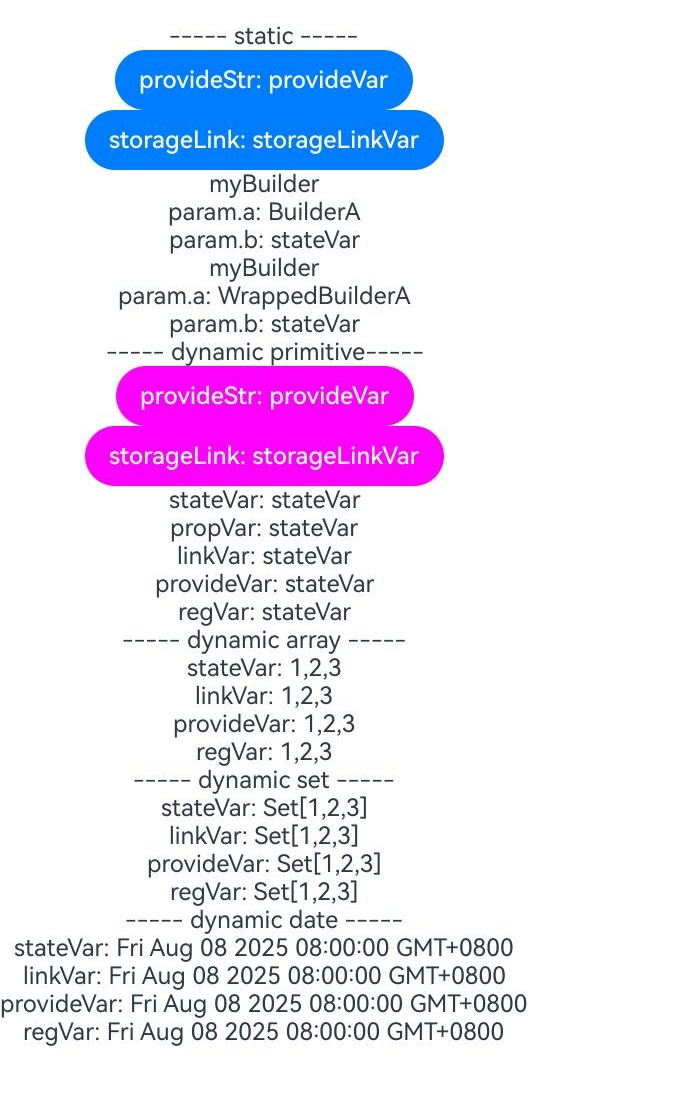
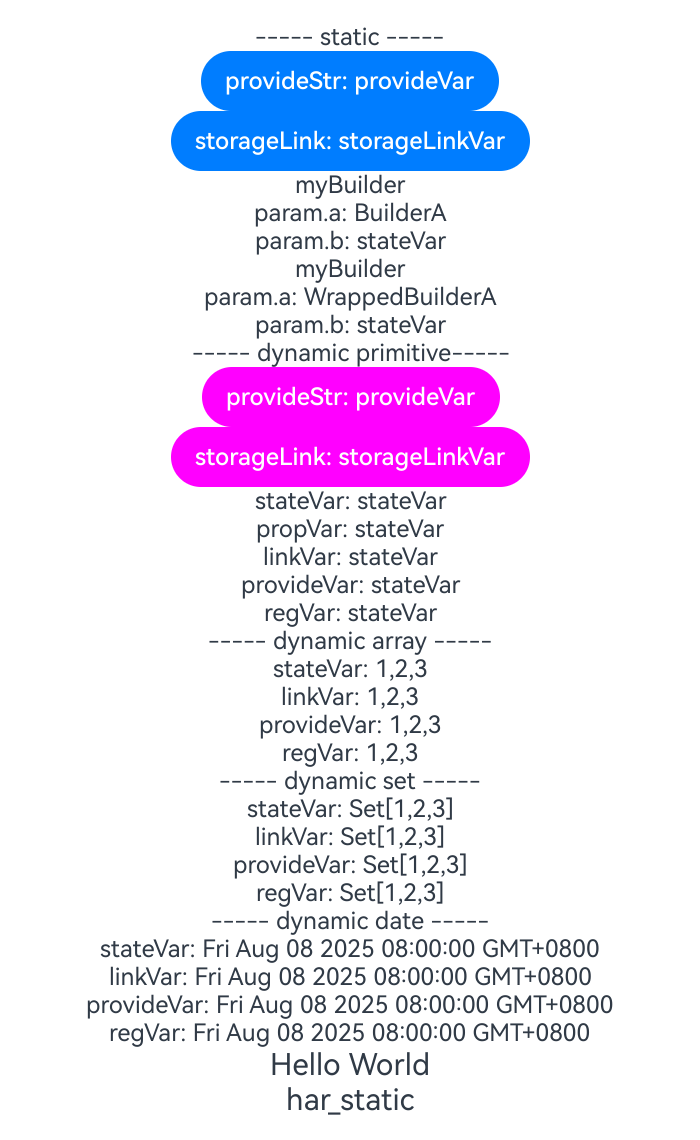
add1.1use1.2

Changed region(s): [[0.0, 0.0309, 0.87, 0.9891]]

diff --git a/cases/smoke/basic/screenshot32/new_script/testcases/test_ui_hap.py b/cases/smoke/basic/screenshot32/new_script/testcases/test_ui_hap.py
@@ -30,7 +30,7 @@ class Test:
         device.start_ability(self.bundle_name, self.ability_name)
         time.sleep(10)
         main_page = device.save_snapshot_to_local('{}_hap.jpeg'.format(device.sn))
-        crop_picture(picture=main_page, x1=0, y1=50, x2=700, y2=1150)
+        crop_picture(picture=main_page, x1=0, y1=50, x2=700, y2=1190)
         stand_pic = os.path.join(device.resource_path, 'ui_hap.jpeg')
 
         similarity = compare_image_similarity(main_page, stand_pic)
